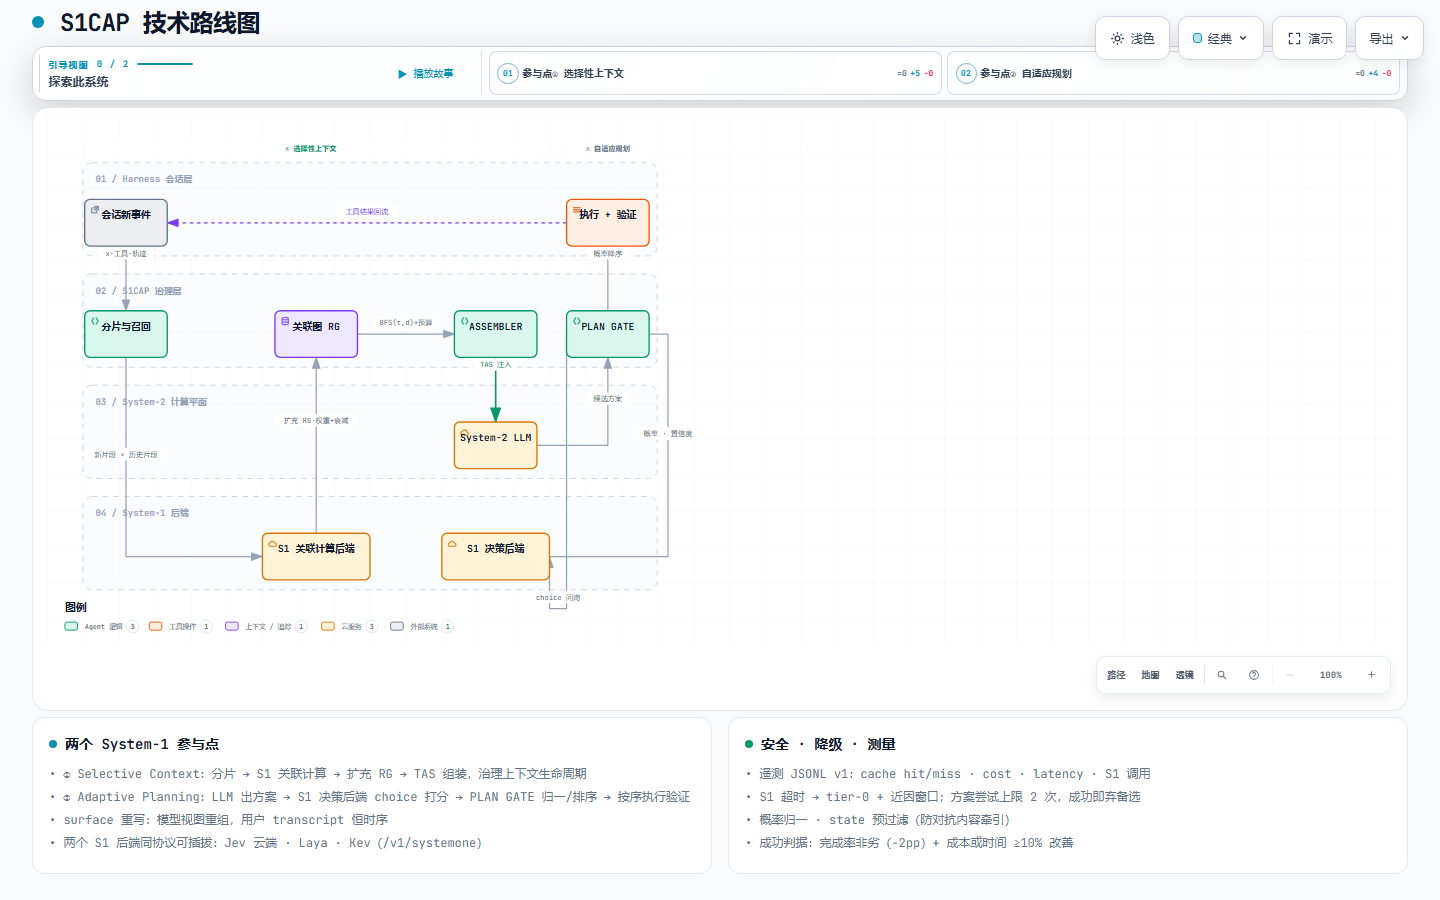
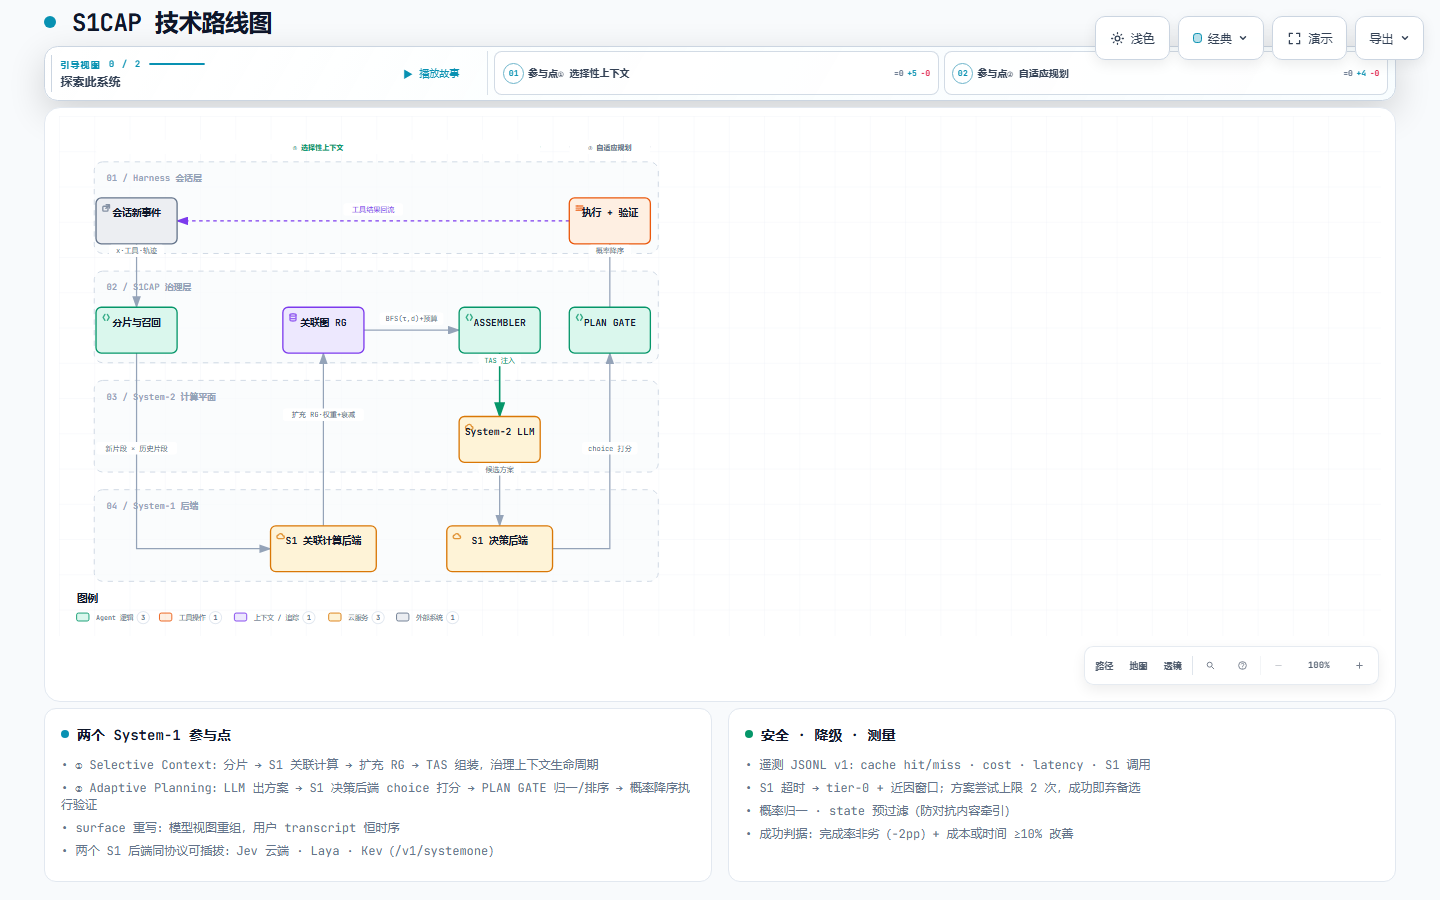
fix(figures): S1-first planning chain per design
Topology: System-2 LLM --candidate plans--> S1 decision backend --choice scores-->
PLAN GATE --probability order--> execute+verify. The gate consumes scores, it does not
call System-1 itself.

- e5 rewired: llm -> s1decide (was llm -> plangate)
- e6 removed (plangate -> s1decide no longer exists)
- e10 relabelled to 'choice 打分' (single edge s1decide -> plangate, auto route)
- mainPath now includes s1decide
- docs: FORMULAS §4 and AGENT_BRIEF §5.4 state who calls System-1 and who consumes the scores

diff --git a/docs/figures/s1cap-technical-route.html b/docs/figures/s1cap-technical-route.html
@@ -5058,12 +5058,11 @@
         <path data-edge-from="segrec" data-edge-to="s1assoc" data-edge-label="新片段 × 历史片段" data-edge-key="1" data-edge-id="e2" data-composition-points="88,269;88,491;240,491" d="M 88 269 L 88 491 L 240 491" class="a-default" stroke-width="1.4" marker-end="url(#arrowhead)"/>
         <path data-edge-from="rg" data-edge-to="assembler" data-edge-label="BFS(τ,d)+预算" data-edge-key="2" data-edge-id="e3" data-composition-points="346,243;454,243" d="M 346 243 L 454 243" class="a-default" stroke-width="1.4" marker-end="url(#arrowhead)"/>
         <path data-edge-from="assembler" data-edge-to="llm" data-edge-label="TAS 注入" data-edge-key="3" data-edge-id="e4" data-composition-points="500,269;500,290;500,290;500,341" d="M 500 269 L 500 290 L 500 290 L 500 341" class="a-emphasis" stroke-width="1.8" marker-end="url(#arrowhead-emphasis)"/>
-        <path data-edge-from="llm" data-edge-to="plangate" data-edge-label="候选方案" data-edge-key="4" data-edge-id="e5" data-composition-points="546,367;625,367;625,269" d="M 546 367 L 625 367 L 625 269" class="a-default" stroke-width="1.4" marker-end="url(#arrowhead)"/>
-        <path data-edge-from="plangate" data-edge-to="s1decide" data-edge-label="choice 问询" data-edge-key="5" data-edge-id="e6" data-composition-points="579,243;579,549;560,549;560,491" d="M 579 243 L 579 549 L 560 549 L 560 491" class="a-default" stroke-width="1.4" marker-end="url(#arrowhead)"/>
-        <path data-edge-from="plangate" data-edge-to="execute" data-edge-label="概率降序" data-edge-key="6" data-edge-id="e7" data-composition-points="625,217;625,166;625,166;625,145" d="M 625 217 L 625 166 L 625 166 L 625 145" class="a-default" stroke-width="1.4" marker-end="url(#arrowhead)"/>
-        <path data-edge-from="execute" data-edge-to="x-event" data-edge-label="工具结果回流" data-edge-key="7" data-edge-id="e8" data-composition-points="579,119;134,119" d="M 579 119 L 134 119" class="a-dashed" stroke-width="1.4" marker-end="url(#arrowhead-dashed)"/>
-        <path data-edge-from="s1assoc" data-edge-to="rg" data-edge-label="扩充 RG·权重+衰减" data-edge-key="8" data-edge-id="e9" data-composition-points="300,465;300,352;300,352;300,269" d="M 300 465 L 300 352 L 300 352 L 300 269" class="a-default" stroke-width="1.4" marker-end="url(#arrowhead)"/>
-        <path data-edge-from="s1decide" data-edge-to="plangate" data-edge-label="概率 · 置信度" data-edge-key="9" data-edge-id="e10" data-composition-points="560,491;692,491;692,243;579,243" d="M 560 491 L 692 491 L 692 243 L 579 243" class="a-default" stroke-width="1.4" marker-end="url(#arrowhead)"/>
+        <path data-edge-from="llm" data-edge-to="s1decide" data-edge-label="候选方案" data-edge-key="4" data-edge-id="e5" data-composition-points="500,393;500,414;500,414;500,465" d="M 500 393 L 500 414 L 500 414 L 500 465" class="a-default" stroke-width="1.4" marker-end="url(#arrowhead)"/>
+        <path data-edge-from="plangate" data-edge-to="execute" data-edge-label="概率降序" data-edge-key="5" data-edge-id="e7" data-composition-points="625,217;625,166;625,166;625,145" d="M 625 217 L 625 166 L 625 166 L 625 145" class="a-default" stroke-width="1.4" marker-end="url(#arrowhead)"/>
+        <path data-edge-from="execute" data-edge-to="x-event" data-edge-label="工具结果回流" data-edge-key="6" data-edge-id="e8" data-composition-points="579,119;134,119" d="M 579 119 L 134 119" class="a-dashed" stroke-width="1.4" marker-end="url(#arrowhead-dashed)"/>
+        <path data-edge-from="s1assoc" data-edge-to="rg" data-edge-label="扩充 RG·权重+衰减" data-edge-key="7" data-edge-id="e9" data-composition-points="300,465;300,352;300,352;300,269" d="M 300 465 L 300 352 L 300 352 L 300 269" class="a-default" stroke-width="1.4" marker-end="url(#arrowhead)"/>
+        <path data-edge-from="s1decide" data-edge-to="plangate" data-edge-label="choice 打分" data-edge-key="8" data-edge-id="e10" data-composition-points="560,491;625,491;625,269" d="M 560 491 L 625 491 L 625 269" class="a-default" stroke-width="1.4" marker-end="url(#arrowhead)"/>
 
         <!-- Nodes -->
         <g id="node-x-event" data-node-id="x-event" data-node-label="会话新事件" tabindex="0" role="button" aria-label="聚焦会话新事件，Harness 会话层 › ① 选择性上下文" aria-pressed="false" data-node-kind="external" data-node-context="Harness 会话层 › ① 选择性上下文">
@@ -5178,29 +5177,25 @@
           <rect x="475.8" y="270" width="48.4" height="14" rx="3" class="c-mask"/>
           <text x="500" y="280" class="t-backend" font-size="8" text-anchor="middle">TAS 注入</text>
         </g>
-        <g data-detail="context" data-edge-from="llm" data-edge-to="plangate" data-edge-label="候选方案" data-edge-key="4" data-edge-id="e5">
-          <rect x="600.8" y="308" width="48.4" height="14" rx="3" class="c-mask"/>
-          <text x="625" y="318" class="t-muted" font-size="8" text-anchor="middle">候选方案</text>
+        <g data-detail="context" data-edge-from="llm" data-edge-to="s1decide" data-edge-label="候选方案" data-edge-key="4" data-edge-id="e5">
+          <rect x="475.8" y="394" width="48.4" height="14" rx="3" class="c-mask"/>
+          <text x="500" y="404" class="t-muted" font-size="8" text-anchor="middle">候选方案</text>
         </g>
-        <g data-detail="context" data-edge-from="plangate" data-edge-to="s1decide" data-edge-label="choice 问询" data-edge-key="5" data-edge-id="e6">
-          <rect x="538.1" y="529" width="62.8" height="14" rx="3" class="c-mask"/>
-          <text x="569.5" y="539" class="t-muted" font-size="8" text-anchor="middle">choice 问询</text>
-        </g>
-        <g data-detail="context" data-edge-from="plangate" data-edge-to="execute" data-edge-label="概率降序" data-edge-key="6" data-edge-id="e7">
+        <g data-detail="context" data-edge-from="plangate" data-edge-to="execute" data-edge-label="概率降序" data-edge-key="5" data-edge-id="e7">
           <rect x="600.8" y="146" width="48.4" height="14" rx="3" class="c-mask"/>
           <text x="625" y="156" class="t-muted" font-size="8" text-anchor="middle">概率降序</text>
         </g>
-        <g data-detail="context" data-edge-from="execute" data-edge-to="x-event" data-edge-label="工具结果回流" data-edge-key="7" data-edge-id="e8">
+        <g data-detail="context" data-edge-from="execute" data-edge-to="x-event" data-edge-label="工具结果回流" data-edge-key="6" data-edge-id="e8">
           <rect x="322.7" y="99" width="67.6" height="14" rx="3" class="c-mask"/>
           <text x="356.5" y="109" class="t-database" font-size="8" text-anchor="middle">工具结果回流</text>
         </g>
-        <g data-detail="context" data-edge-from="s1assoc" data-edge-to="rg" data-edge-label="扩充 RG·权重+衰减" data-edge-key="8" data-edge-id="e9">
+        <g data-detail="context" data-edge-from="s1assoc" data-edge-to="rg" data-edge-label="扩充 RG·权重+衰减" data-edge-key="7" data-edge-id="e9">
           <rect x="254.2" y="332" width="91.6" height="14" rx="3" class="c-mask"/>
           <text x="300" y="342" class="t-muted" font-size="8" text-anchor="middle">扩充 RG·权重+衰减</text>
         </g>
-        <g data-detail="context" data-edge-from="s1decide" data-edge-to="plangate" data-edge-label="概率 · 置信度" data-edge-key="9" data-edge-id="e10">
-          <rect x="655.8" y="347" width="72.4" height="14" rx="3" class="c-mask"/>
-          <text x="692" y="357" class="t-muted" font-size="8" text-anchor="middle">概率 · 置信度</text>
+        <g data-detail="context" data-edge-from="s1decide" data-edge-to="plangate" data-edge-label="choice 打分" data-edge-key="8" data-edge-id="e10">
+          <rect x="593.6" y="370" width="62.8" height="14" rx="3" class="c-mask"/>
+          <text x="625" y="380" class="t-muted" font-size="8" text-anchor="middle">choice 打分</text>
         </g>
 
         <!-- Legend -->
@@ -5420,7 +5415,7 @@
         </div>
         <ul>
           <li>&bull; ① Selective Context：分片 → S1 关联计算 → 扩充 RG → TAS 组装，治理上下文生命周期</li>
-          <li>&bull; ② Adaptive Planning：LLM 出方案 → S1 决策后端 choice 打分 → PLAN GATE 归一/排序 → 按序执行验证</li>
+          <li>&bull; ② Adaptive Planning：LLM 出方案 → S1 决策后端 choice 打分 → PLAN GATE 归一/排序 → 概率降序执行验证</li>
           <li>&bull; surface 重写：模型视图重组，用户 transcript 恒时序</li>
           <li>&bull; 两个 S1 后端同协议可插拔：Jev 云端 · Laya · Kev（/v1/systemone）</li>
         </ul>

diff --git a/docs/AGENT_BRIEF.md b/docs/AGENT_BRIEF.md
@@ -258,6 +258,7 @@ All knobs map 1:1 to plugin config (`cordis.patch.yml` → `/s1 config` UI): `re
 ### 5.4 Plan gate (factor S1G on) — S1 decision backend
 
 - Trigger: assistant emits a tool-call batch; if `planGate.on` and >1 plausible plan exists (harness prompted — system addendum asks for ≤`maxPlans` (3) alternative plans as structured JSON when ambiguity is high; default elicitation `on-demand`).
+- **Dataflow (topology frozen 2026-09-28):** the LLM's candidate plans go **directly to the S1 decision backend** for the choice scoring; the PLAN GATE consumes the returned probabilities + confidence and applies normalization, abstention, ordering and the attempt cap, then hands the ordered plan to execution. The gate does not make the System-1 call itself.
 - **One choice question per plan set:** `state = {task brief, x, T}`; options = plan summaries (≤8; Jev handles 255 natively, Laya caps ~20 at defaults — the cap protects the local path); `criteria` = "Which plan is most likely to complete the task correctly with the least wasted work?"
 - **Normalize probabilities server-side** (Jev invariants not guaranteed, §1.2).
 - **Attempt controller:** execute in probability order; verification oracle = harness-native (tests / build / exit criteria per benchmark); attempt cap **M=2** (candidate plans m ≤ 3); on success, discard remaining plans and log saved-token estimate; abstain (confidence < 0.5) → keep the LLM's own order.

diff --git a/docs/FORMULAS.zh.md b/docs/FORMULAS.zh.md
@@ -132,7 +132,7 @@ $$
 
 ## 4. 方案闸门（S1 决策后端 + PLAN GATE，因子 S1G 开）
 
-LLM 产出方案集 $\Pi = \{\pi_1,\dots,\pi_m\}$（$m \le 3$），一次 choice 问询返回概率 $p_i$ 与置信度 $\mathrm{conf}_i$。**服务端归一**（Jev 不保证 $\sum p_i = 1$）：
+LLM 产出方案集 $\Pi = \{\pi_1,\dots,\pi_m\}$（$m \le 3$）后，**直接把候选方案交给 S1 决策后端**做一次 choice 打分，取回概率 $p_i$ 与置信度 $\mathrm{conf}_i$；**PLAN GATE 消费打分结果**，只负责归一化、弃权判断、尝试上限与排序。**服务端归一**（Jev 不保证 $\sum p_i = 1$）：
 
 $$
 \hat p_i = \frac{p_i}{\sum_j p_j}
